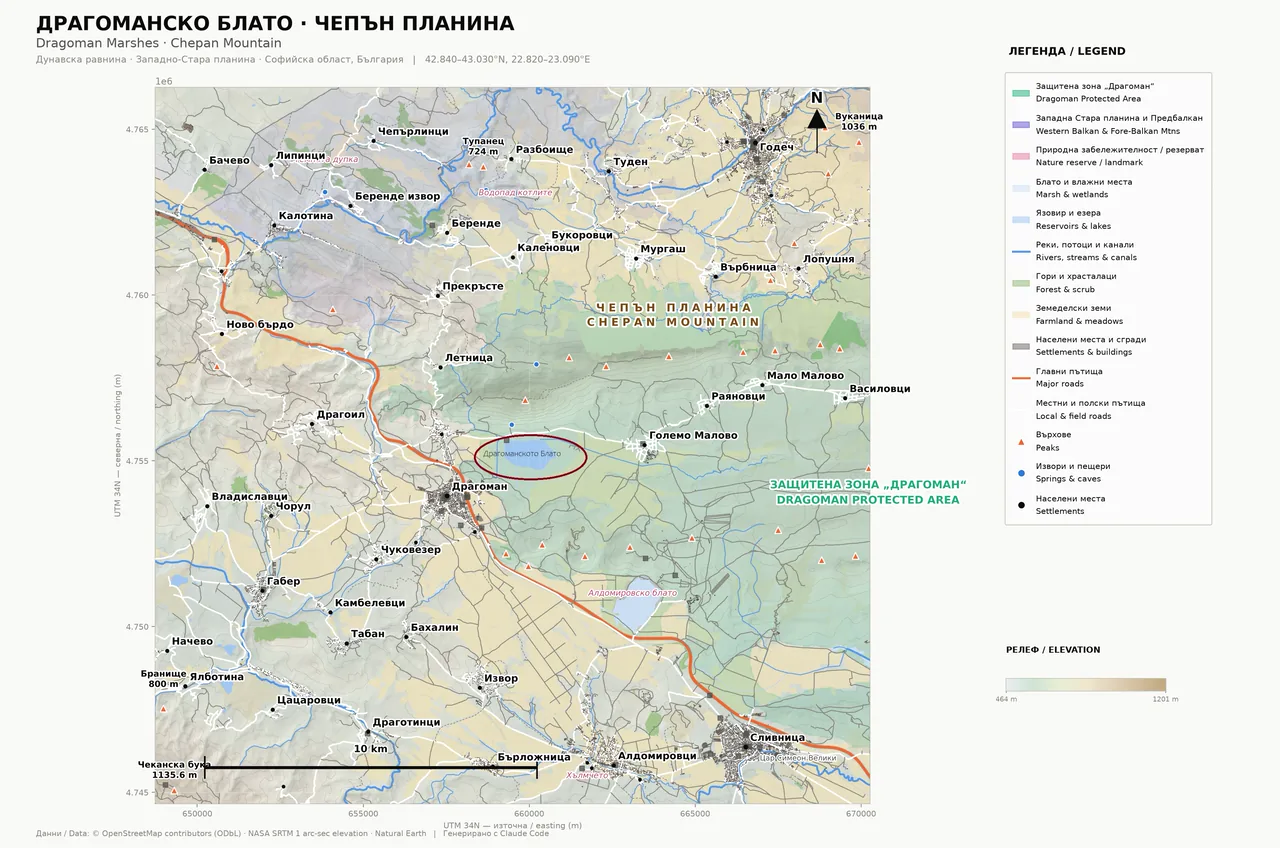
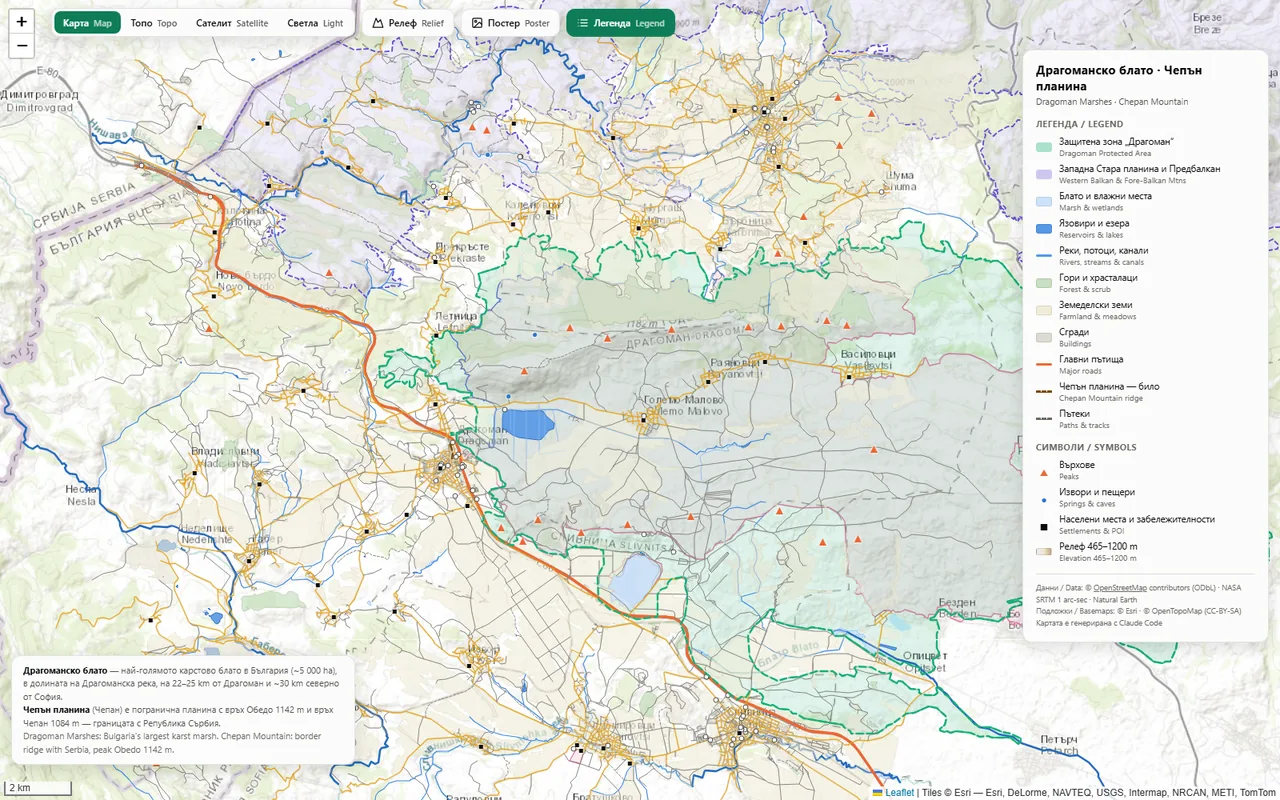
feat: replace old map with the new poster and real map preview (#23)
The visitor-section map card and its lightbox now use the new poster
(poster-*.webp previews, full size from public/map/poster.webp) and the
old ramsar-map.jpg is removed. The interactive map teaser is a screenshot of
the actual map. README screenshot and docs updated.

diff --git a/src/components/VisitInfo.tsx b/src/components/VisitInfo.tsx
@@ -108,11 +108,15 @@ export default function VisitInfo() {
             aria-label={t.visit.map_title}
           >
             <img
-              src={`${import.meta.env.BASE_URL}images/ramsar-map.jpg`}
+              src={`${import.meta.env.BASE_URL}images/poster-1280.webp`}
+              srcSet={[640, 1280, 1920]
+                .map((w) => `${import.meta.env.BASE_URL}images/poster-${w}.webp ${w}w`)
+                .join(", ")}
+              sizes="(min-width: 1024px) 1500px, 150vw"
               alt=""
               loading="lazy"
               decoding="async"
-              className="w-full h-full object-cover group-hover:scale-105 transition-transform duration-700 min-h-[400px]"
+              className="w-full h-full object-cover object-[14%_center] group-hover:scale-105 transition-transform duration-700 min-h-[400px]"
             />
             <div className="absolute inset-0 bg-stone-900/20 group-hover:bg-stone-900/10 transition-colors duration-500" />
 
@@ -197,10 +201,21 @@ export default function VisitInfo() {
                 <X className="w-6 h-6" />
               </button>
               <img
-                src={`${import.meta.env.BASE_URL}images/ramsar-map.jpg`}
+                src={`${import.meta.env.BASE_URL}map/poster.webp`}
                 alt={t.visit.map_title}
+                width={3325}
+                height={2205}
                 className="w-full h-auto max-h-[90vh] object-contain bg-stone-100"
               />
+              <a
+                href={`${import.meta.env.BASE_URL}map/poster.webp`}
+                target="_blank"
+                rel="noopener"
+                className="absolute bottom-4 left-4 inline-flex items-center gap-2 min-h-[44px] px-4 rounded-full bg-black/60 text-white text-sm font-medium hover:bg-emerald-600 focus-visible:outline-none focus-visible:ring-2 focus-visible:ring-emerald-400 transition-colors"
+              >
+                <Maximize2 className="w-4 h-4" aria-hidden="true" />
+                {t.visit.imap_open}
+              </a>
             </motion.div>
           </motion.div>
         )}

diff --git a/src/components/InteractiveMap.tsx b/src/components/InteractiveMap.tsx
@@ -3,7 +3,7 @@ import { motion } from "motion/react";
 import { ExternalLink, MousePointerClick } from "lucide-react";
 import { useLanguage } from "../i18n";
 
-const PREVIEW_WIDTHS = [640, 1280, 1920];
+const PREVIEW_WIDTHS = [640, 1280, 1600];
 
 // The map is a standalone page (public/map/) embedded on demand: nothing from it is
 // downloaded until the visitor activates it, and activation also stops the embedded

diff --git a/docs/MEDIA.md b/docs/MEDIA.md
@@ -59,7 +59,7 @@ The photos are self-hosted (previously hotlinked from visitdragoman.com, which n
 | `fringed-water-lily` | Nymphoides peltata | TeunSpaans | CC BY-SA 3.0 |
 | `viola` | Viola pumila | Public domain (Wikimedia Commons) | Public domain |
 
-`map-preview-*.webp` are poster crops for the interactive map teaser (see [MAP.md](MAP.md)). `ramsar-map.jpg` is the Ramsar site map with legend (701x437, supplied by the project owner, source: visitdragoman.com).
+`poster-*.webp` are the card previews of the map poster (full size: `public/map/poster.webp`, 3325x2205, supplied by the project owner), shown in the visitor section and its lightbox. `map-preview-*.webp` are screenshots of the interactive map used as its teaser (see [MAP.md](MAP.md)). The former `ramsar-map.jpg` was replaced by the new poster.
 
 Regenerate a rendition with FFmpeg (WebP, no upscaling):
 

diff --git a/README.md b/README.md
@@ -53,7 +53,7 @@ The complex hosts **256 bird species** (61% of the country's ornithofauna), 43 m
 
 | Biodiversity | Visitor information | Mobile menu |
 |---|---|---|
-| <img src="docs/screenshots/biodiversity.jpg" alt="Gallery of bird species with a description of the fauna" width="360"> | <img src="docs/screenshots/visitor-info.jpg" alt="Map of the marsh and visitor tips" width="360"> | <img src="docs/screenshots/mobile-menu.jpg" alt="Mobile layout with the navigation menu open" width="170"> |
+| <img src="docs/screenshots/biodiversity.jpg" alt="Gallery of bird species with a description of the fauna" width="360"> | <img src="docs/screenshots/visitor-info.jpg" alt="Visitor section with the interactive map of the marsh" width="360"> | <img src="docs/screenshots/mobile-menu.jpg" alt="Mobile layout with the navigation menu open" width="170"> |
 
 ## Tech stack
 

diff --git a/docs/MAP.md b/docs/MAP.md
@@ -10,7 +10,8 @@ A standalone [Leaflet](https://leafletjs.com/) page in `public/map/`. It is copi
 | `data.json` | GeoJSON, 18.7k OpenStreetMap features (coordinates rounded to 5 decimals, about 1 m) | ~6.5 MB (about 1 MB gzipped) |
 | `relief.webp` | Shaded-relief overlay (NASA SRTM), georeferenced by `BOUNDS` in `index.html` | ~60 KB |
 | `poster.webp` | Printable poster with legend, opened by the **Poster** button | ~800 KB |
-| `../images/map-preview-*.webp` | Preview shown on the site before the map is activated | 44-271 KB |
+| `../images/map-preview-*.webp` | Screenshot of the map, shown on the site before it is activated | 64-291 KB |
+| `../images/poster-*.webp` | Card previews of the poster in the visitor section | 44-271 KB |
 
 ## Behaviour
 

diff --git a/CHANGELOG.md b/CHANGELOG.md
@@ -12,6 +12,7 @@ All notable changes to this project are documented here. The format follows [Kee
 - Species and map images no longer depend on visitdragoman.com (it began returning 403); they are self-hosted as responsive WebP.
 
 ### Changed
+- The old Ramsar map in the visitor section is replaced by the new map poster (lightbox with a link to the full-size file); the README screenshot is refreshed.
 - Build tooling upgraded to major versions: Vite 8, `@vitejs/plugin-react` 6, TypeScript 7 and `lucide-react` 1. Minimum Node.js is now 22.12 (required by Vite 8).
 
 ## [1.1.0] - 2026-10-14
